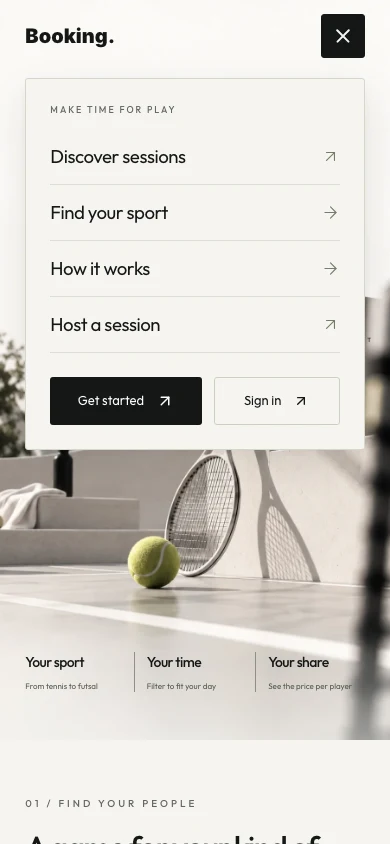
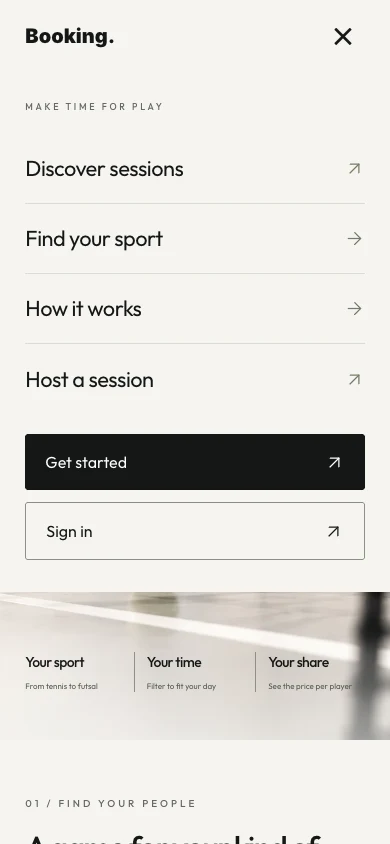
feat(landing): animate an unboxed two-line mobile menu

diff --git a/app/_components/landing-view.module.css b/app/_components/landing-view.module.css
@@ -185,34 +185,38 @@
   .hero { height: max(740px, 186vw); min-height: 0; max-height: 1250px; }
   .backdrop img { object-position: center; }
   .wash { background: linear-gradient(0deg, rgba(246,245,241,.65) 0%, transparent 17%); }
-  .header { padding: 14px 6.5%; }
+  .header { padding: 14px 6.5%; transition: background 180ms ease; }
+  .header:has(.mobileMenu[open]) { background: var(--paper); }
   .desktopNav, .login { display: none; }
   .wallCaption { display: none; }
   .mobileMenu { display: block; }
-  .mobileMenu summary { list-style: none; cursor: pointer; display: grid; place-items: center; width: 44px; height: 44px; border: 1px solid #14171624; border-radius: 3px; background: #f6f5f180; transition: background 220ms ease, color 220ms ease, border-color 220ms ease, transform 180ms ease; }
+  .mobileMenu summary { list-style: none; cursor: pointer; display: grid; place-items: center; width: 44px; height: 44px; color: var(--ink); background: transparent; transition: color 180ms ease, transform 180ms ease; }
   .mobileMenu summary::-webkit-details-marker { display: none; }
   .mobileMenu summary:active { transform: scale(.92); }
-  .mobileMenu[open]:not([data-state="closing"]) summary { background: var(--ink); border-color: var(--ink); color: var(--paper); }
-  .menuIcon { position: relative; display: block; width: 18px; height: 14px; pointer-events: none; }
-  .menuIcon span { position: absolute; left: 0; top: 6px; width: 100%; height: 1.5px; border-radius: 2px; background: currentColor; transition: transform 280ms cubic-bezier(.22, 1, .36, 1), opacity 160ms ease; }
+  .menuIcon { position: relative; display: block; width: 24px; height: 18px; pointer-events: none; }
+  .menuIcon span { position: absolute; left: 0; top: 7.5px; width: 100%; height: 3px; transition: transform 160ms cubic-bezier(.22, 1, .36, 1) 140ms; }
+  .menuIcon span::before { content: ""; display: block; width: 100%; height: 100%; border-radius: 1px; background: currentColor; transform: rotate(0); transition: transform 160ms cubic-bezier(.22, 1, .36, 1); }
   .menuIcon span:first-child { transform: translateY(-5px); }
   .menuIcon span:last-child { transform: translateY(5px); }
-  .mobileMenu[open]:not([data-state="closing"]) .menuIcon span:first-child { transform: rotate(45deg); }
-  .mobileMenu[open]:not([data-state="closing"]) .menuIcon span:nth-child(2) { opacity: 0; transform: scaleX(.4); }
-  .mobileMenu[open]:not([data-state="closing"]) .menuIcon span:last-child { transform: rotate(-45deg); }
-  .menuPanel { position: absolute; top: calc(100% + 6px); left: 6.5%; right: 6.5%; padding: 24px; background: var(--paper); border: 1px solid #d5d7ca; border-radius: 3px; box-shadow: 0 16px 40px #22251c1a, 0 3px 10px #22251c08; max-height: calc(100vh - 102px); max-height: calc(100dvh - 102px); overflow-y: auto; overscroll-behavior: contain; transform-origin: top right; }
+  .mobileMenu[open]:not([data-state="closing"]) .menuIcon span { transform: translateY(0); transition-delay: 0ms; }
+  .mobileMenu[open]:not([data-state="closing"]) .menuIcon span::before { transition-delay: 140ms; }
+  .mobileMenu[open]:not([data-state="closing"]) .menuIcon span:first-child::before { transform: rotate(45deg); }
+  .mobileMenu[open]:not([data-state="closing"]) .menuIcon span:last-child::before { transform: rotate(-45deg); }
+  .menuPanel { position: absolute; top: 100%; left: 0; right: 0; padding: 28px 6.5% 32px; background: var(--paper); max-height: calc(100vh - 72px); max-height: calc(100dvh - 72px); overflow-y: auto; overscroll-behavior: contain; }
   .mobileMenu[open] .menuPanel { animation: menu-reveal 320ms cubic-bezier(.22, 1, .36, 1) both; }
   .mobileMenu[data-state="closing"] .menuPanel { animation: menu-dismiss 180ms ease-in both; pointer-events: none; }
-  .menuEyebrow { margin-bottom: 12px; color: var(--muted); font-size: 9px; font-weight: 500; letter-spacing: .22em; text-transform: uppercase; }
+  .menuEyebrow { margin-bottom: 20px; color: var(--muted); font-size: 9px; font-weight: 500; letter-spacing: .3em; text-transform: uppercase; }
   .menuLinks { display: grid; }
-  .menuLinks a { display: flex; justify-content: space-between; align-items: center; gap: 16px; min-height: 56px; border-bottom: 1px solid #dcded4; font-size: clamp(17px, 4.8vw, 21px); font-weight: 400; letter-spacing: -.025em; transition: color 180ms ease, background 180ms ease, transform 180ms ease; }
-  .menuLinks svg { width: 19px; height: 19px; flex-shrink: 0; stroke-width: 1.4; color: #747c67; transition: transform 180ms ease; }
+  .menuLinks a { display: flex; justify-content: space-between; align-items: center; gap: 16px; min-height: clamp(68px, 18vw, 80px); border-bottom: 1px solid #dcded4; font-size: clamp(20px, 5.6vw, 24px); font-weight: 400; letter-spacing: -.025em; transition: color 180ms ease, background 180ms ease, transform 180ms ease; }
+  .menuLinks a:last-child { border-bottom: 0; }
+  .menuLinks svg { width: 21px; height: 21px; flex-shrink: 0; stroke-width: 1.4; color: #747c67; transition: transform 180ms ease; }
   .menuLinks a:active { transform: translateX(3px); color: #596443; }
   .menuLinks a:active svg { transform: translateX(3px); }
-  .menuActions { display: grid; grid-template-columns: 1.2fr 1fr; gap: 12px; margin-top: 24px; }
-  .menuActions a { min-height: 48px; display: flex; align-items: center; justify-content: center; gap: 12px; padding: 10px 8px; border-radius: 3px; font-size: 13px; transition: background 180ms ease, transform 180ms ease; }
+  .menuActions { display: grid; gap: 12px; margin-top: 20px; }
+  .menuActions a { min-height: 56px; display: flex; align-items: center; justify-content: space-between; gap: 12px; padding: 16px 20px; border-radius: 3px; font-size: 16px; transition: background 180ms ease, transform 180ms ease; }
+  .menuActions svg { width: 21px; height: 21px; stroke-width: 1.4; }
   .menuStart { background: var(--ink); color: #fff; }
-  .menuSignIn { border: 1px solid #cbd0c0; }
+  .menuSignIn { border: 1px solid #8d9186; }
   .menuActions a:active { transform: scale(.96); }
   .mobileMenu[open] .menuLinks a { animation: menu-link-reveal 360ms cubic-bezier(.22, 1, .36, 1) backwards; }
   .mobileMenu[open] .menuLinks a:nth-child(2) { animation-delay: 35ms; }
@@ -258,19 +262,19 @@
   .footer .credit { text-align: left; margin: 0; }
 }
 @media (hover: hover) {
-  .mobileMenu summary:hover { border-color: #747c67; }
+  .mobileMenu summary:hover { color: #596443; }
   .menuLinks a:hover { color: #596443; }
   .menuLinks a:hover svg { transform: translate(2px, -2px); }
   .menuStart:hover { background: #34402d; }
   .menuSignIn:hover { background: #e8eade; }
 }
 @keyframes menu-reveal {
-  from { opacity: 0; transform: translateY(-10px) scale(.97); }
-  to { opacity: 1; transform: translateY(0) scale(1); }
+  from { opacity: 0; transform: translateY(-10px); }
+  to { opacity: 1; transform: translateY(0); }
 }
 @keyframes menu-dismiss {
-  from { opacity: 1; transform: translateY(0) scale(1); }
-  to { opacity: 0; transform: translateY(-8px) scale(.98); }
+  from { opacity: 1; transform: translateY(0); }
+  to { opacity: 0; transform: translateY(-8px); }
 }
 @keyframes menu-link-reveal {
   from { opacity: 0; transform: translateY(8px); }

diff --git a/tests/e2e/landing-page.spec.ts b/tests/e2e/landing-page.spec.ts
@@ -142,7 +142,7 @@ test("the mobile disclosure supports keyboard navigation and all dismissal paths
   await expect(panel).toBeHidden();
 
   await trigger.click();
-  await page.getByRole("list", { name: "What you can do with Booking", exact: true }).click();
+  await page.locator("header").click();
   await expect(panel).toBeHidden();
   await expect(trigger).toHaveAccessibleName("Open navigation menu");
 });

diff --git a/app/_components/landing-navigation.tsx b/app/_components/landing-navigation.tsx
@@ -119,7 +119,7 @@ export function LandingMobileMenu() {
           setState((current) => current === "open" ? "closing" : "open");
         }}
       >
-        <span className={styles.menuIcon} aria-hidden="true"><span /><span /><span /></span>
+        <span className={styles.menuIcon} aria-hidden="true"><span /><span /></span>
       </summary>
       <nav
         id="landing-mobile-navigation"

diff --git a/app/_components/landing-page.md b/app/_components/landing-page.md
@@ -8,8 +8,9 @@ The hero uses static, separately composed desktop and mobile WebP backgrounds.
 Its responsive `picture` selects the mobile image below 701px and prioritizes
 loading the hero. Both assets together are approximately 112 KiB. Text, links
 and navigation remain HTML. The mobile menu uses native `details`/`summary`
-with a small client enhancement in `landing-navigation.tsx`. Its trigger morphs
-between hamburger and close icons, the panel and links animate in, and closing
+with a small client enhancement in `landing-navigation.tsx`. Its two thick
+hamburger strokes converge before rotating into a thick cross, with the sequence
+reversed on close. The panel and links animate in, and closing
 finishes before the disclosure is hidden. Closing links become inert immediately.
 Escape returns focus to the trigger; outside taps, focus leaving the menu,
 link selection, and the desktop breakpoint also dismiss it. The nonmodal panel
@@ -36,9 +37,11 @@ page's dark ink even when the app theme is dark, keeping contrast on its light
 background. Header and footer use the shared 20px wordmark at every viewport,
 matching the discovery header and keeping the hero headline and primary action
 dominant. The home links retain a 44px hit target and the existing header spacing.
-The mobile menu pairs an 18px icon with the wordmark inside a 44px hit target.
-Its trigger, panel and actions share the primary link's 3px corners, warm paper,
-dark ink and muted olive accents, keeping the navigation in the landing theme.
+The mobile menu uses a transparent 44px hit target with two 24px-wide, 3px-thick
+strokes. Its warm-paper surface runs edge to edge below the shared header, with
+generous ruled navigation rows and full-width stacked actions. Dark ink, muted
+olive accents and the actions' 3px corners retain the landing theme without a
+separate trigger box or floating panel border and shadow.
 Use `<BookingLogo tone="inherit" />` on this fixed light surface. The shared
 module owns wordmark styling; other pages use its default navigation treatment
 or explicitly select `size="display"` for a main brand heading.
@@ -85,4 +88,5 @@ Asset provenance and editing prompts: `public/images/landing-court.md`.
 Production-rendered review captures: [desktop](../../docs/assets/landing-page-desktop.webp)
 and [mobile](../../docs/assets/landing-page-mobile.webp). The enhanced mobile
 navigation has [closed](../../docs/assets/landing-mobile-menu-closed.webp) and
-[open-menu](../../docs/assets/landing-mobile-menu.webp) captures with the shared wordmark.
+[open-menu](../../docs/assets/landing-mobile-menu.webp) captures with the shared wordmark,
+plus a [recorded transition](../../docs/assets/landing-mobile-menu-motion.gif).
